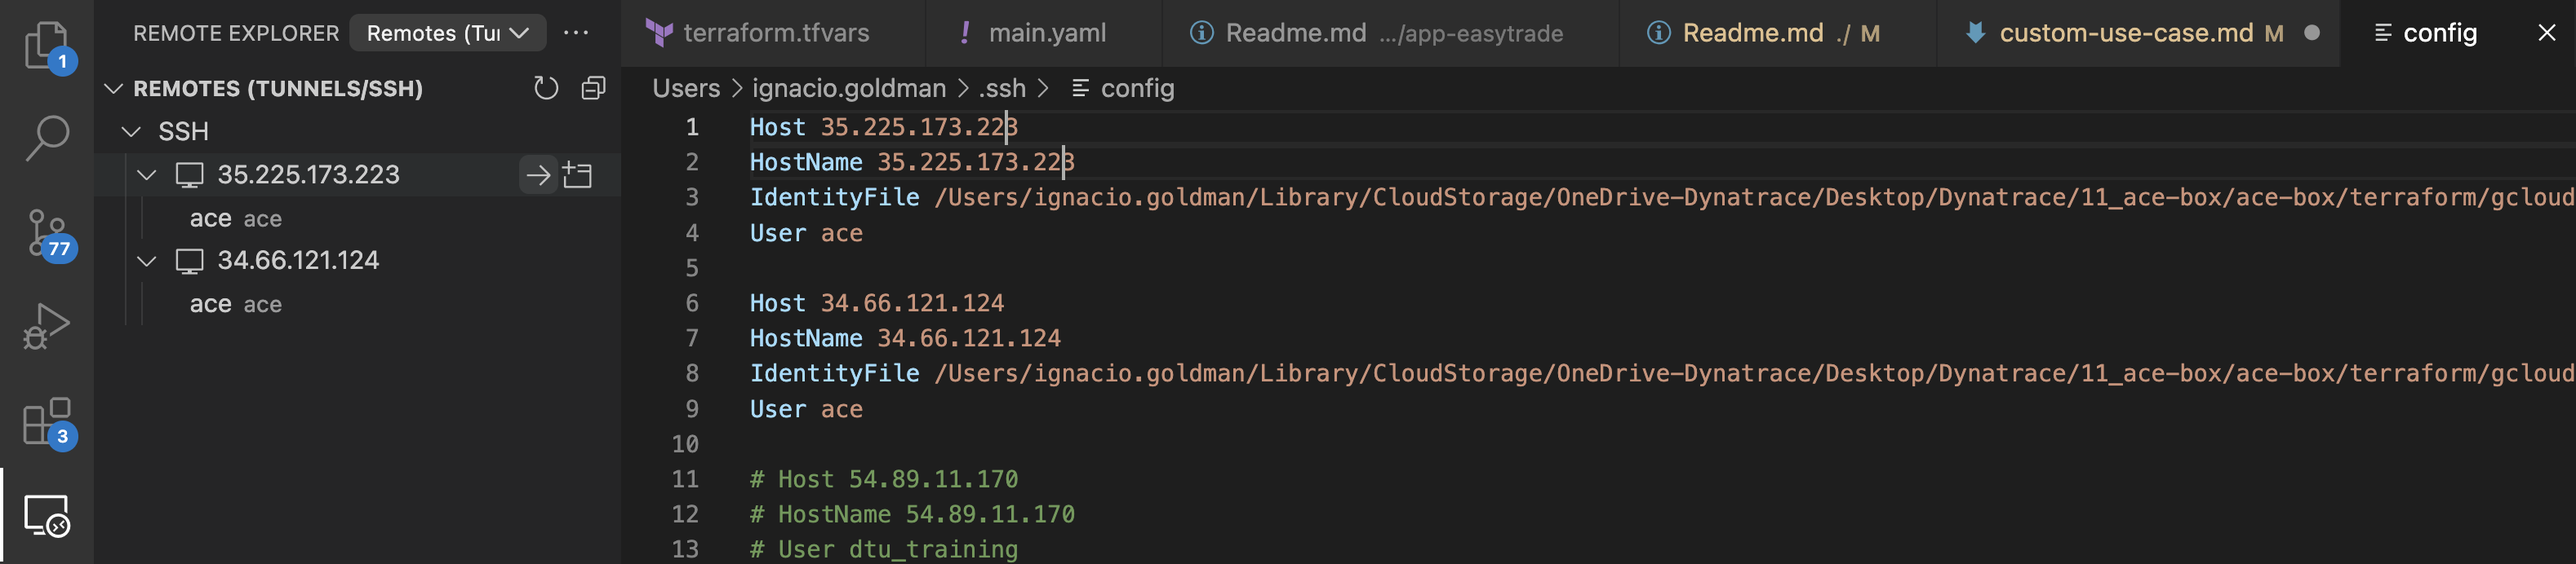
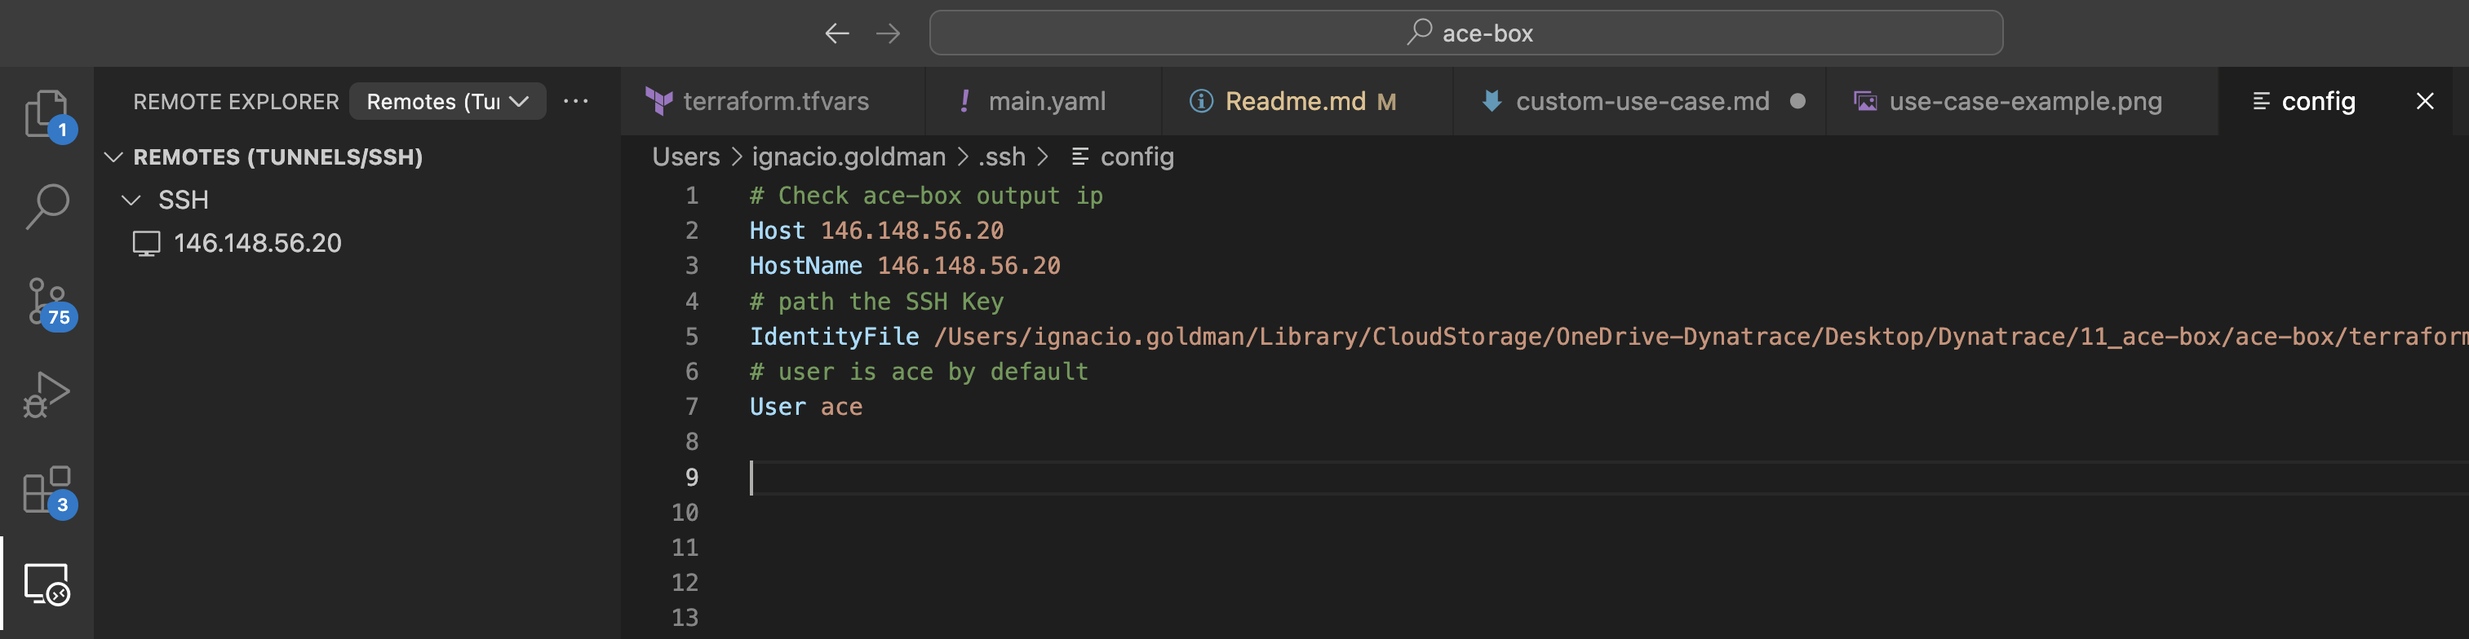
clean up & update first commands dev guide

diff --git a/docs/custom-use-case.md b/docs/custom-use-case.md
@@ -35,41 +35,41 @@ If a particular use-case requires actions beyond the out-of-the-box roles, custo
 
 ## Get Started
 
-Let's breakdown into steps the way that the `Basic Observability Demo` has been created.
+Let's create a custom use-case from scratch, in order to replicate the `Basic Observability Demo` previously presented.
 
-1. Clone the custom use-case locally. Later on, you could either make changes locally or within the ace-box instance created. You will understand later what it is more convenient.
+1. Clone the custom use-case locally. Later on, you could either make changes locally or within the ace-box instance.
 
 ```bash
 git clone https://github.com/dynatrace-ace/ace-box-ext-template.git
 ```
 
-2. Follow the ace-box installation guide and for use case, select the ext-template.
+2. Follow the ace-box installation guide and for use-case, select the external template.
 
 ```bash
 use_case = "https://<user>:<personal-access-token>@github.com/dynatrace-ace/ace-box-ext-template.git"
 ```
 
-Enable use-case as you would normally, e.g. `ace enable https://github.com/dynatrace-ace/ace-box-ext-template.git`. This will clone the repository to a _repos_ folder within the user's _home_ directory and initially enable the use-case. For example, in the case of `https://github.com/dynatrace-ace/ace-box-ext-template.git`, a new local repo will be created at _/home/ace/ace-box-ext-template_
-
 > Note: make sure to authenticate github with your user and creating a personal access token. Replace the placeholders above with your own values.
 
-3. Run `terraform apply` in order to create an "empty" ace-box. [Here](https://github.com/dynatrace-ace/ace-box-ext-template/blob/main/roles/my-use-case/tasks/main.yml) is where you can start working on your use case, and check the [repository structure](#repository-structure) for details on how it works.
+3. By following the previous installation, at one point you will be running the following command: `terraform apply`, in order to create an "empty" ace-box. [Here](https://github.com/dynatrace-ace/ace-box-ext-template/blob/main/roles/my-use-case/tasks/main.yml) is then where you can start working on your use case, and check the [repository structure](#repository-structure) for details on how it works.
 
-4. Once the previous command finishes its execution, you should see the information needed to access your VM (ace-box)
+Once the previous command finishes its execution, you should see the information needed to access your VM (ace-box)
 
 ![](../assets/ace-box_dashboard.png)
 
 > Note: if you can't see that information anymore, you can go back to the terraform directory where you did execute the command (`terraform apply`) and execute `terraform output` to see the command again.
 
-5. Notice how a key gets created for you to access the VM. You could either access via SSH, or what would be more convenient using an IDE such as [Remote Development](https://code.visualstudio.com/docs/remote/ssh) from VSCODE
+5. An SSH key gets created in order to access the ace-box. You could either access via SSH, or use an IDE such as [Remote Development](https://code.visualstudio.com/docs/remote/ssh) from Visual Studio.
 
 ![](../assets/access_via_VSCODE.png)
 
-When developing an custom use-case, it might be cumbersome to update/re-install an custom use-case from a remote repository. We therefore introduced a flag for `ace enable` that allows you to work on your use-case locally (i.e. ACE-Box) while keeping the remote as well as ACE-Box roles in sync.
+> Note: it is highly recommended to use an IDE, in order to work more comfortable and faster.
 
-6. Re-run the enable command with the local flag, e.g. `ace enable https://github.com/dynatrace-ace/ace-box-ext-template.git --local`.
+6. Access the ace-box by clicking in the remote tunnel configuration, and run the enable command with the local flag, e.g. `ace enable https://github.com/dynatrace-ace/ace-box-ext-template.git --local`.
 
-SCREENSHOT OF HELLO WORLD
+![](../assets/hello-world.png)
+
+
 
 7. Add k3s role
 

diff --git a/Readme.md b/Readme.md
@@ -22,7 +22,7 @@
 
 ## What is it?
 The ACE-Box is a framework that can be used as a portable sandbox, demo and testing environment. It has been designed to simplify resource deployment and to streamline content creation.
-The ACE-box allows to deploy compute instances (usually cloud-hosted virtual machines) and to install modules on them. 
+The ACE-box allows to deploy compute instances (usually cloud-hosted VMs) and to install modules on them. 
 The framework follows a declarative approach where modules, resources and configurations are defined in a set of configuration files.
 
 <br>
@@ -37,18 +37,17 @@ A use-case aim to reproduce real-world setups for purposes like feature demonstr
 
 ### Use-case example: Basic Observability Demo
 
-The following use-case can be used to demo the Dynatrace Basic Observability features.
-
-The ACE-Box has been configured to spin up a VM and use different built-in modules to install on that machine the following components:
-- k8s (k3s)
-- Dynatrace Operator
-- Easytrade (demo app)
-
-The environment (VM + the modules installed on it) is automatically provisioned by the framework and it can be leveraged to showcase Dynatrace observability capabilities:
+The environment (VM + the modules installed on it) is automatically provisioned and it can be leveraged to showcase Dynatrace Observability capabilities:
 
 ![](./assets/use-case-example.png)
 
+The ACE-Box has been configured to spin up a VM and use different built-in modules to install on that machine the following components:
+- k8s, using a k3s distribution
+- Dynatrace Operator
+- Easytrade, demo app
+
 ### Out-of-the-box use-cases
+
 The ACE-Box framework comes with a set of use-cases which are referred as _out-of-the-box use-cases_ which have been added from time to time by the ACE-Box contributors. 
 
 The list of available out-of-the-box use-cases is reported below:
@@ -59,7 +58,10 @@ use-case | k8s | OneAgent | Synth AG | Jenkins | Gitea | Registry | GitLab | AWX
 [`demo_ar_workflows_gitlab`](user-skel/ansible_collections/ace_box/ace_box/roles/demo-ar-workflows-gitlab/README.md) | x | x | | | | x |  | x |  | x | Demo flow for Auto Remediation using Gitlab/Dynatrace Workflows |
 `demo_monaco_gitops` | x | x | x | x | x | x |  |  |  | x | Demo flow for Application Onboarding using Jenkins/Gitea |
 
+These use cases become handy to learn the concepts around a specific topic and to showcase features to customers. It is highly recommended to practice every presented demo/HoT.
+
 ### Custom use-cases
+
 In addition to the out-of-the-box use-cases provided natively by the ACE-Box, it is possible to source custom use-cases. This allows using the ACE-Box as a platform to develop your own use-cases, demonstrations, trainings, etc.
 
 Check out [Custom use-case](docs/custom-use-case.md) documentation for more info.
